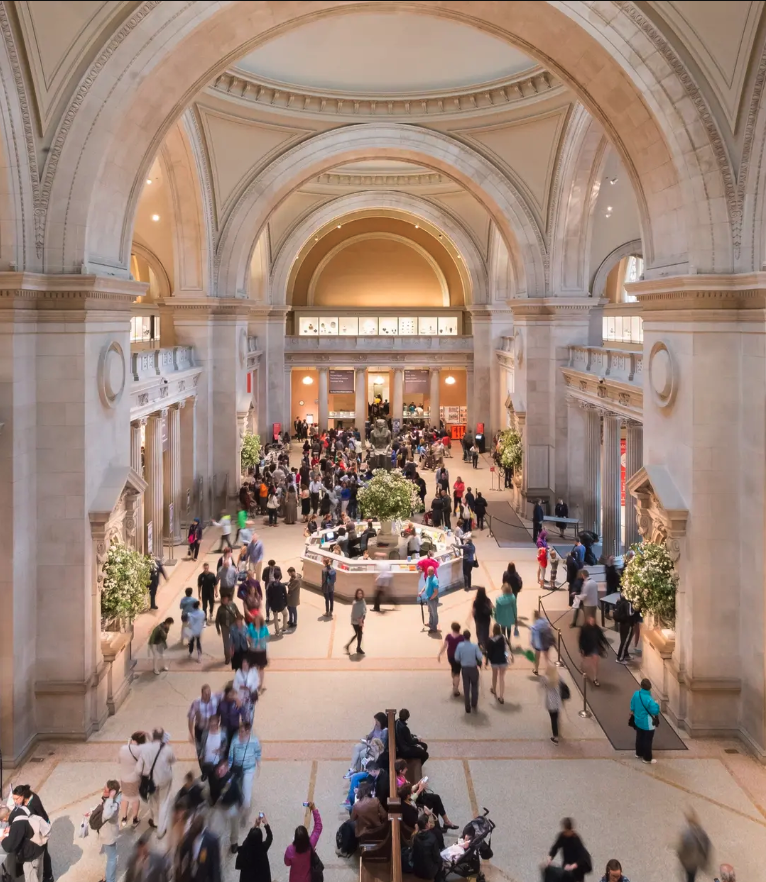
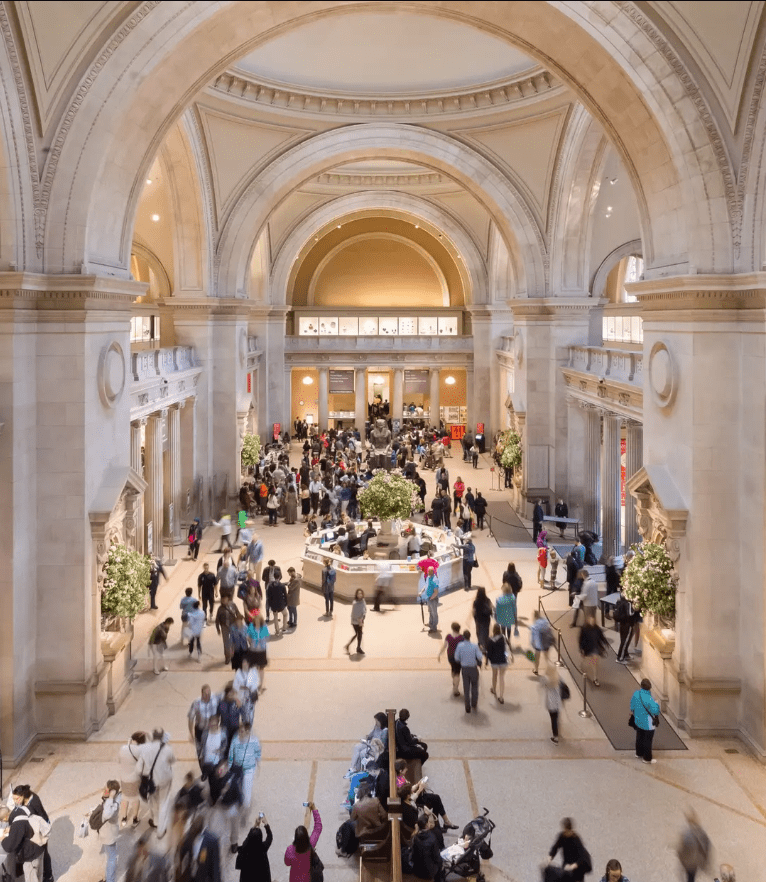
build conflict resolved

diff --git a/frontend/src/pages/Home/index.jsx b/frontend/src/pages/Home/index.jsx
@@ -1,7 +1,7 @@
 import SearchHeader from "../../components/SearchHeader/SearchHeader";
 import ImageTrip from "../../components/ImageTrip/ImageTrip.jsx";
 import Label from "../../components/Label/Label";
-import NycMet from "../../assets/images/MetNYC.png";
+import NycMet from "../../assets/images/MetNyc.jpeg";
 import { MdShare } from "react-icons/md";
 
 const Home = () => {

diff --git a/frontend/tailwind.config.js b/frontend/tailwind.config.js
@@ -13,7 +13,10 @@ export default {
         "venture-red": "#FF0000",
       },
       backgroundImage: {
-        KayakHomeHeader: "url(./src/assets/images/KayakHomeHeader.png)",
+        KayakHomeHeader: "url(/src/assets/images/KayakHomeHeader.png)",
+      },
+      backgroundImageMet: {
+        Met: "url(/src/assets/images/MetNyc.png)",
       },
     },
   },
